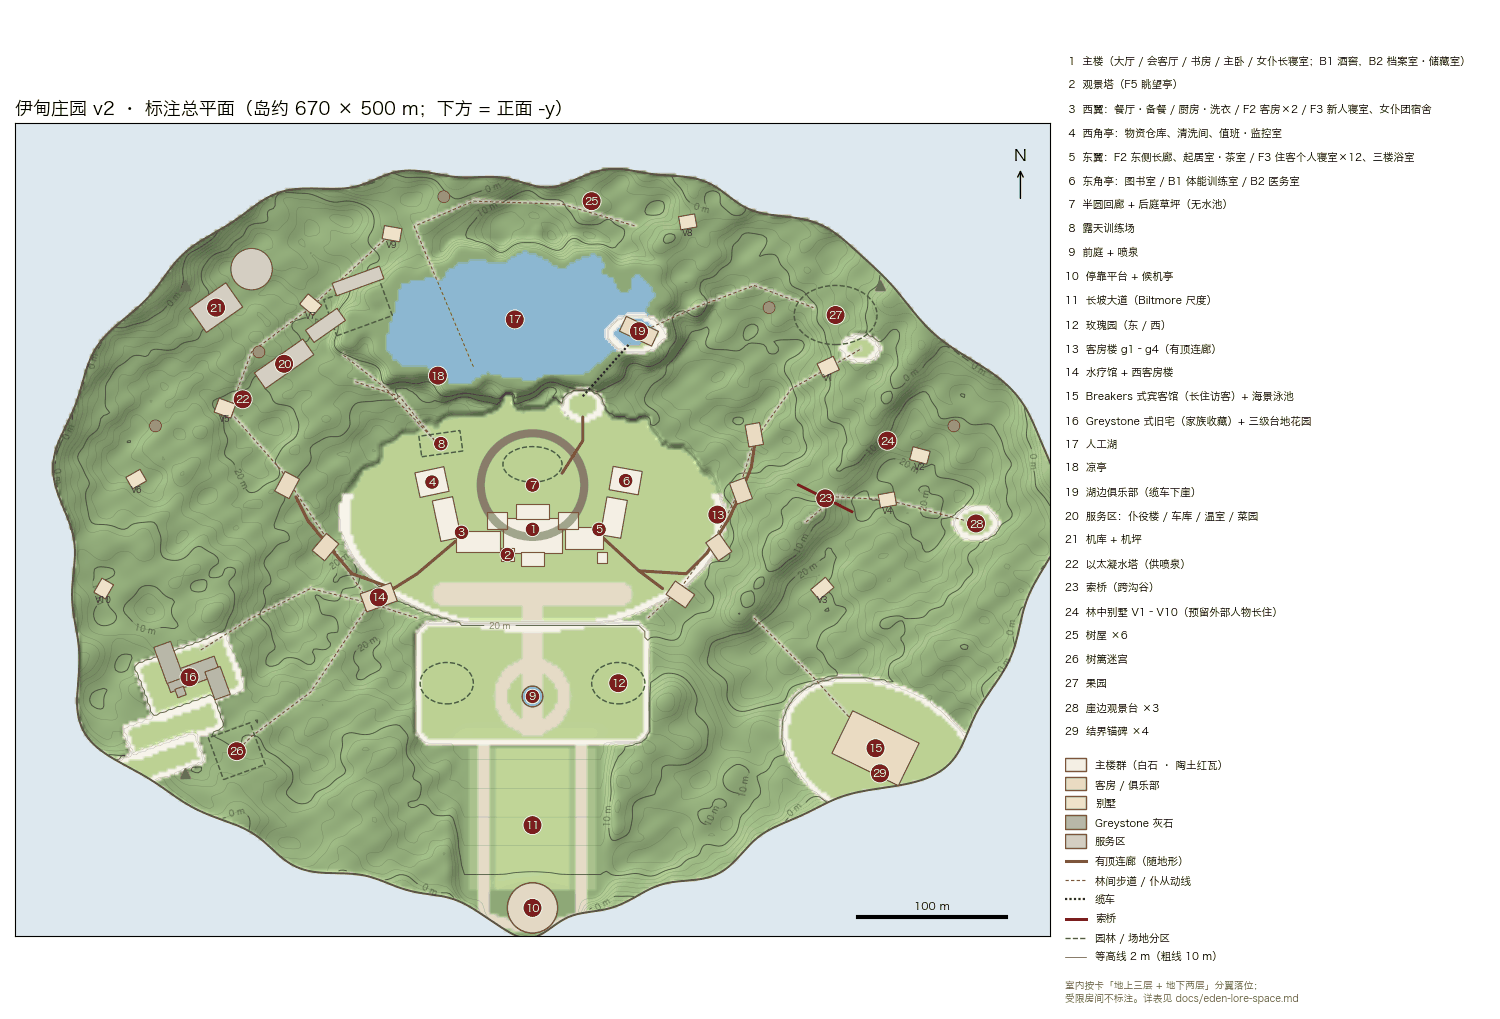
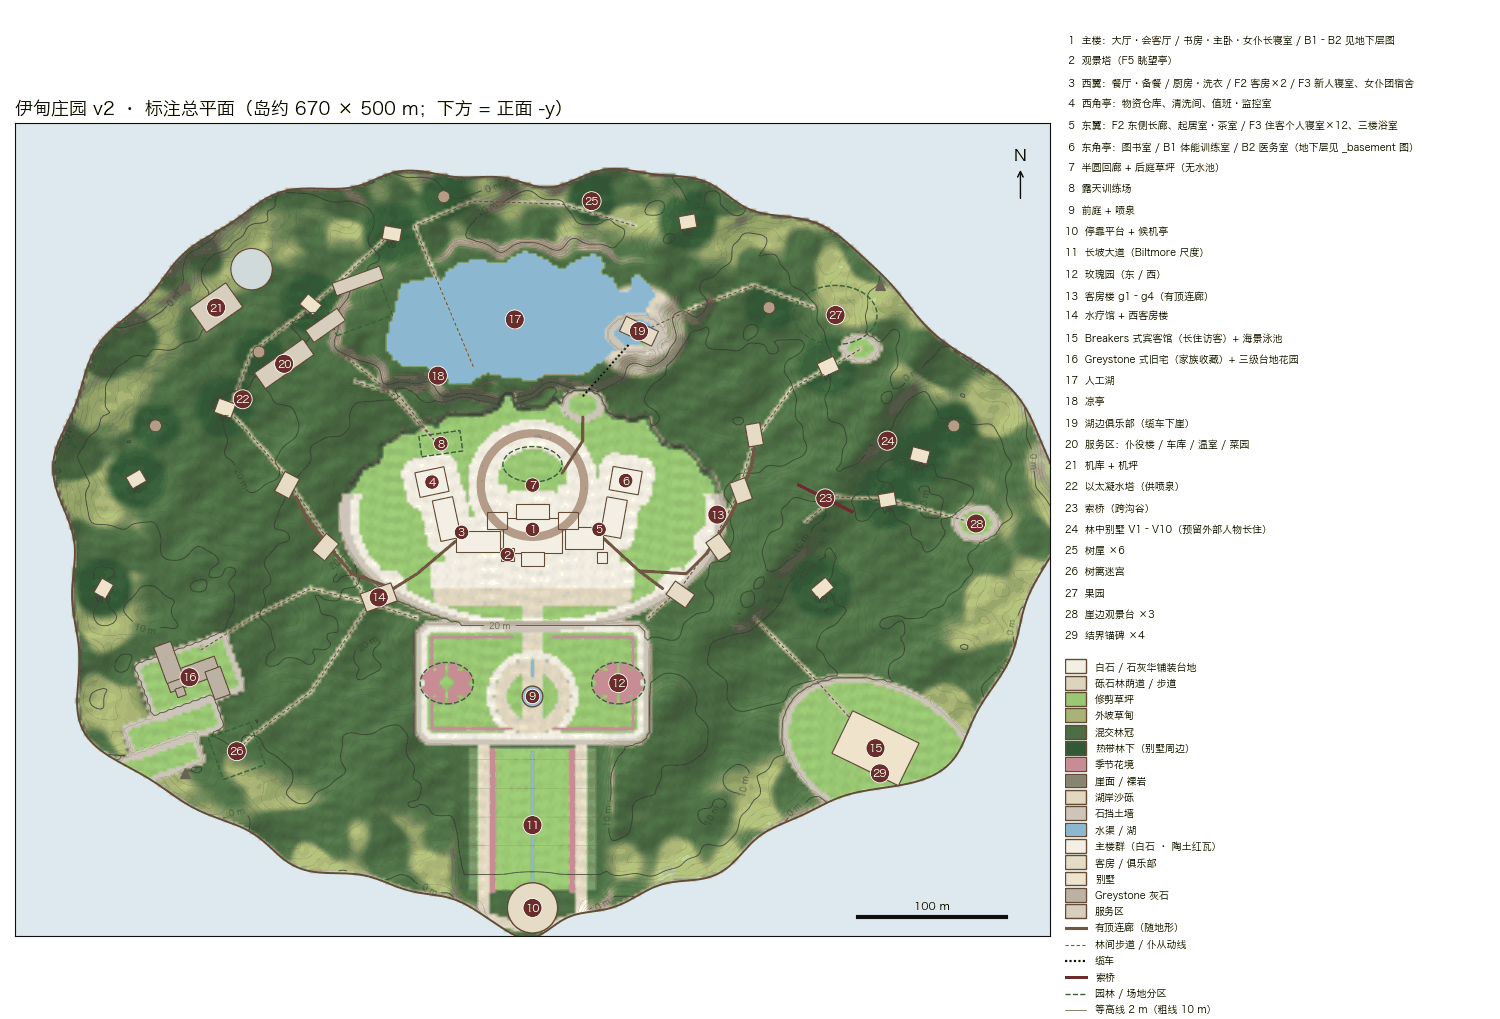
estate2 plan v2.1: restricted rooms as neutral * labels, basement B1/B2 plans, ground-cover classes (paving, gravel, lawn, meadow, beds, rock, sand, rills, tropical understory)

diff --git a/blender/estate2/plan2d.py b/blender/estate2/plan2d.py
@@ -26,14 +26,27 @@ fig, ax = plt.subplots(figsize=(15, 10.2), dpi=100)
 fig.subplots_adjust(0.01, 0.01, 0.70, 0.95)
 ax.set_facecolor('#dfe7ee')
 # 地面：林地为主，草坪 / 砾石 / 湖
-base = np.dstack([np.full_like(h, .56), np.full_like(h, .66), np.full_like(h, .47)])
 gy, gx = np.gradient(h, 2.0)
+slope = np.hypot(gx, gy)
 shade = np.clip(1 + (-gx * 0.6 + gy * 0.6) * 0.35, .65, 1.25)[..., None]
-img = base * shade
-lawn = att['lawn'][..., None]; img = img * (1 - lawn) + np.array([.74, .82, .58]) * shade * lawn
-gr = att['gravel'][..., None]; img = img * (1 - gr) + np.array([.90, .86, .78]) * gr
+tex = 1 + 0.06 * L.fbm(xs, ys, 9, 2, 5)[..., None]
+img = np.broadcast_to(np.array([.30, .43, .27]), h.shape + (3,)) * tex          # 混交林冠（深）
+
+def lay(mask, col):
+    global img
+    m = np.clip(mask, 0, 1)[..., None]; img = img * (1 - m) + np.array(col) * tex * m
+lay(att['tropic'], [.20, .36, .22])            # 别墅周边热带林下
+lay(att['meadow'], [.66, .70, .45])            # 外坡草甸 / 野花
+lay(att['lawn'], [.60, .78, .45])              # 修剪草坪（亮）
+lay(att['gravel'], [.88, .84, .74])            # 砾石林荫道 / 步道
+lay(att['paved'], [.95, .93, .88])             # 白石 / 石灰华铺装
+lay(att['beds'], [.80, .55, .60])              # 季节花境
+lay(np.clip((slope - 0.75) / 0.4, 0, 1) * (att['padmask'] < .5), [.55, .51, .46])   # 崖面 / 裸岩
+lay(att['sand'], [.90, .85, .72])              # 湖岸沙砾
+img = img * shade
 lk = (att['lake'] > .5)[..., None]; img = np.where(lk, np.array([.55, .72, .82]), img)
-bl = (att['built'] > .5)[..., None]; img = np.where(bl, np.array([.97, .96, .92]), img)
+bl = (att['built'] > .5)[..., None]; img = np.where(bl, np.array([.80, .78, .74]), img)   # 挡土墙
+img = np.where((att['rill'] > .5)[..., None], np.array([.45, .65, .80]), img)
 img = np.where(inside[..., None], np.clip(img, 0, 1), np.array([.87, .91, .94]))
 ax.imshow(img, extent=(-351, 351, -276, 276), origin='lower', interpolation='bilinear')
 cs = ax.contour(xs, ys, np.where(inside, h, np.nan), levels=np.arange(-6, 44, 2), colors='#4a4a3a', linewidths=.25, alpha=.45)
@@ -71,12 +84,12 @@ ax.add_patch(Circle((0, -256), 17, fc='#e0d8c8', ec=EDGE, lw=1, zorder=5))
 
 # 编号标签
 LAB = [
-    (1, (0, 0), '主楼（大厅 / 会客厅 / 书房 / 主卧 / 女仆长寝室；B1 酒窖，B2 档案室·储藏室）'),
+    (1, (0, 0), '主楼：大厅·会客厅 / 书房·主卧·女仆长寝室 / B1–B2 见地下层图'),
     (2, (-17, -17), '观景塔（F5 眺望亭）'),
     (3, (-48, -2), '西翼：餐厅·备餐 / 厨房·洗衣 / F2 客房×2 / F3 新人寝室、女仆团宿舍'),
     (4, (-68, 32), '西角亭：物资仓库、清洗间、值班·监控室'),
     (5, (45, 0), '东翼：F2 东侧长廊、起居室·茶室 / F3 住客个人寝室×12、三楼浴室'),
-    (6, (63, 33), '东角亭：图书室 / B1 体能训练室 / B2 医务室'),
+    (6, (63, 33), '东角亭：图书室 / B1 体能训练室 / B2 医务室（地下层见 _basement 图）'),
     (7, (0, 30), '半圆回廊 + 后庭草坪（无水池）'),
     (8, (-62, 58), '露天训练场'),
     (9, (0, -113), '前庭 + 喷泉'),
@@ -111,21 +124,46 @@ ax.set_title('伊甸庄园 v2 · 标注总平面（岛约 670 × 500 m；下方 
 ax.plot([220, 320], [-262, -262], color='k', lw=3); ax.text(270, -257, '100 m', ha='center', fontsize=8)
 ax.annotate('N', (330, 250), fontsize=12, ha='center'); ax.annotate('', (330, 245), (330, 222), arrowprops=dict(arrowstyle='->'))
 # 图例
-lg = fig.add_axes([0.71, 0.01, 0.285, 0.94]); lg.axis('off')
+lg = fig.add_axes([0.71, 0.0, 0.285, 0.97]); lg.axis('off')
 yy = 0.995
 for n, _, t in LAB:
-    lg.text(0, yy, f'{n:>2}  {t}', fontsize=7.6, va='top', wrap=True); yy -= .025
+    lg.text(0, yy, f'{n:>2}  {t}', fontsize=7.2, va='top', wrap=True); yy -= .0215
 yy -= .01
-for c, t in ((GROUP_C['main'], '主楼群（白石 · 陶土红瓦）'), (GROUP_C['guest'], '客房 / 俱乐部'), (GROUP_C['villa'], '别墅'),
+for c, t in (('#f2eee5', '白石 / 石灰华铺装台地'), ('#e0d6bd', '砾石林荫道 / 步道'), ('#99c773', '修剪草坪'), ('#a8b273', '外坡草甸'),
+             ('#4d6e45', '混交林冠'), ('#335c38', '热带林下（别墅周边）'), ('#cc8c99', '季节花境'), ('#8c8275', '崖面 / 裸岩'),
+             ('#e6d9b8', '湖岸沙砾'), ('#cdc7bd', '石挡土墙'), ('#73a6cc', '水渠 / 湖'),
+             (GROUP_C['main'], '主楼群（白石 · 陶土红瓦）'), (GROUP_C['guest'], '客房 / 俱乐部'), (GROUP_C['villa'], '别墅'),
              (GROUP_C['grey'], 'Greystone 灰石'), (GROUP_C['svc'], '服务区')):
-    lg.add_patch(Rectangle((0, yy - .012), .05, .014, fc=c, ec=EDGE, transform=lg.transAxes)); lg.text(.07, yy, t, fontsize=7.6, va='top'); yy -= .02
+    lg.add_patch(Rectangle((0, yy - .012), .05, .014, fc=c, ec=EDGE, transform=lg.transAxes)); lg.text(.07, yy, t, fontsize=7.2, va='top'); yy -= .0165
 for st, t in ((dict(color='#a0522d', lw=2.2), '有顶连廊（随地形）'), (dict(color='#7a5a3a', lw=.8, ls=(0, (3, 2))), '林间步道 / 仆从动线'),
               (dict(color='#222', lw=1.6, ls=(0, (1, 1))), '缆车'), (dict(color='#8b0000', lw=2), '索桥'), (dict(color='#2f6b2f', lw=1, ls='--'), '园林 / 场地分区'),
               (dict(color='#4a4a3a', lw=.5), '等高线 2 m（粗线 10 m）')):
-    lg.plot([0, .05], [yy - .006] * 2, transform=lg.transAxes, **st); lg.text(.07, yy, t, fontsize=7.6, va='top'); yy -= .02
+    lg.plot([0, .05], [yy - .006] * 2, transform=lg.transAxes, **st); lg.text(.07, yy, t, fontsize=7.2, va='top'); yy -= .0165
 lg.text(0, yy - .01, '室内按卡「地上三层 + 地下两层」分翼落位；\n受限房间不标注。详表见 docs/eden-lore-space.md', fontsize=7, va='top', color='#555')
 lg.set_xlim(0, 1); lg.set_ylim(0, 1)
 fig.savefig(OUT + '.tmp.png', dpi=100)
 from PIL import Image
 Image.open(OUT + '.tmp.png').convert('RGB').quantize(128).save(OUT, optimize=True); os.remove(OUT + '.tmp.png')
 print(OUT, os.path.getsize(OUT) // 1024, 'KB')
+
+
+# ---------------------------------------------------------------- 地下层（B1 / B2）
+OUTB = OUT.replace('.png', '_basement.png')
+fig, axs = plt.subplots(2, 2, figsize=(12, 7.2), dpi=100, gridspec_kw=dict(width_ratios=[40, 22]))
+fig.subplots_adjust(0.02, 0.06, 0.98, 0.88, 0.08, 0.28)
+COL = {'*': '#e3dcef', '酒窖': '#ead9c4', '档案室': '#dfe6ee', '储藏室': '#e8e4da', '体能训练室': '#dcead9', '医务室': '#d9e9ec'}
+for j, (bid, name) in enumerate((('hall', '1 主楼'), ('e_pav', '6 东角亭'))):
+    for i, lv in enumerate(('B1', 'B2')):
+        ax = axs[i, j]
+        for n, x0, y0, x1, y1 in L.BASEMENT[bid][lv]:
+            c = COL['*'] if '*' in n else COL.get(n, '#f3f1ec')
+            ax.add_patch(Rectangle((x0, y0), x1 - x0, y1 - y0, fc=c, ec='#4a3a2a', lw=1.2))
+            ax.text((x0 + x1) / 2, (y0 + y1) / 2, n, ha='center', va='center', fontsize=9)
+        b = [q for q in L.MAIN if q[0] == bid][0]
+        ax.set_xlim(-b[3] / 2 - 1, b[3] / 2 + 1); ax.set_ylim(-b[4] / 2 - 1, b[4] / 2 + 1); ax.set_aspect('equal'); ax.axis('off')
+        ax.set_title(f'{name} · {lv}（{"-4.5" if lv == "B1" else "-9.0"} m）  {b[3]}×{b[4]} m', fontsize=10, loc='left')
+fig.suptitle('伊甸庄园 v2 · 地下层平面（卡：地上三层 + 地下两层）', fontsize=13, x=0.02, ha='left')
+fig.text(0.02, 0.015, L.BASEMENT_LINK + '；带 * 的为通用名房间，只保留几何与标签。下方 = 正面。', fontsize=8.5, color='#555')
+fig.savefig(OUTB + '.tmp.png', dpi=100)
+Image.open(OUTB + '.tmp.png').convert('RGB').quantize(64).save(OUTB, optimize=True); os.remove(OUTB + '.tmp.png')
+print(OUTB, os.path.getsize(OUTB) // 1024, 'KB')

diff --git a/blender/estate2/layout.py b/blender/estate2/layout.py
@@ -208,8 +208,45 @@ def terrain(x, y):
             lawn = np.maximum(lawn, (np.abs(x) < 26).astype(float) * (sd < -3))
             lawn = np.maximum(lawn, 0.55 * (sd < -3))
     gravel = gravel_mask(x, y)
-    lawn = lawn * (1 - gravel)
-    return h, dict(lawn=lawn, gravel=gravel, built=built, padmask=padmask, lake=lake)
+    cv = cover(x, y, padmask, lake)
+    lawn = lawn * (1 - gravel) * (1 - cv['paved']) * (1 - cv['beds'])
+    gravel = gravel * (1 - cv['paved'])
+    return h, dict(lawn=lawn, gravel=gravel, built=built, padmask=padmask, lake=lake, **cv)
+
+
+def cover(x, y, padmask, lake):
+    """地表分类（v2 用户意见）：白石 / 石灰华铺装、种植床、水渠、湖岸沙砾、外坡草甸、别墅周边热带林下。"""
+    pl = [p for p in PADS if p['id'] == 'plateau'][0]
+    te = [p for p in PADS if p['id'] == 'terrace'][0]
+    fp = footprint_sd(x, y, 0.0)
+    sd_pl, sd_te = pad_sd(pl, x, y), pad_sd(te, x, y)
+    rc = np.hypot(x - FOUNTAIN[0], y - FOUNTAIN[1])
+    paved = ((fp < 9) & (sd_pl < -1)).astype(float)                              # 主楼群周边石铺台地
+    paved = np.maximum(paved, ((sd_pl < -1) & (y < -22) & (y > -40) & (np.abs(x) < 70)).astype(float))   # 主楼前平台
+    paved = np.maximum(paved, ((sd_te > -7) & (sd_te < -1.5)).astype(float))    # 前庭台地沿挡土墙的石铺步道
+    paved = np.maximum(paved, ((rc > COURT_R) & (rc < COURT_R + 5)).astype(float))
+    paved = np.maximum(paved, ((sd_pl > -6) & (sd_pl < -1.5) & (y < 25)).astype(float))
+    arc_r = np.hypot(x - ARC['c'][0], y - ARC['c'][1])
+    paved *= 1 - ((arc_r < ARC['R'] - ARC['depth'] / 2 - 3) & (y > ARC['c'][1])).astype(float)   # 回廊院内留草坪
+    beds = np.zeros_like(paved)
+    for gid, _, kind, c, sz, rot in GARDENS:
+        if gid in ('rose', 'rose_w'):
+            r = np.hypot((x - c[0]) / sz[0], (y - c[1]) / sz[1])
+            beds = np.maximum(beds, ((r < 1) & (np.abs(np.sin(np.arctan2(y - c[1], x - c[0]) * 4)) > 0.25) & (r > 0.25)).astype(float))
+    beds = np.maximum(beds, ((np.abs(np.abs(x) - 27.5) < 1.6) & (y > -246) & (y < -148)).astype(float))   # 大道两侧花境
+    beds = np.maximum(beds, ((sd_te > -11) & (sd_te < -8) & (np.abs(x) > 12)).astype(float))            # 前庭沿墙花境
+    rill = ((np.abs(x) < 0.9) & (y > -246) & (y < -150)).astype(float)            # 大道中轴水渠
+    rill = np.maximum(rill, ((np.abs(x) < 0.9) & (y > -100) & (y < -88)).astype(float))
+    dc = np.hypot(x - 72, y - 134)
+    sand = ((dc < 34) & (lake < 0.95) & (dc > 10)).astype(float) * smooth01((34 - dc) / 6)
+    e = edge_dist(x, y)
+    meadow = smooth01((55 - e) / 20) * smooth01(0.5 + 2.2 * fbm(x, y, 70, 2, 31)) * (1 - padmask)
+    under = np.zeros_like(paved)
+    for b in VILLAS:
+        under = np.maximum(under, smooth01((24 - np.hypot(x - b[1], y - b[2])) / 8))
+    for tx, ty, _ in TREEHOUSES:
+        under = np.maximum(under, smooth01((20 - np.hypot(x - tx, y - ty)) / 8))
+    return dict(paved=paved, beds=beds, rill=rill, sand=sand, meadow=meadow * (1 - under), tropic=under)
 
 
 # ---------------------------------------------------------------- 路网
@@ -318,7 +355,7 @@ SERVICE = [
     ('svc_house', -168, 112, 40, 13, 2.5, 35, 'hip', 'white'),     # 仆役楼：女仆团后勤、布草、员工餐厅
     ('hangar', -214, 150, 30, 20, 2, 35, 'flat', 'white'),          # 机库（机坪在旁）
     ('garage', -140, 138, 26, 10, 1.2, 35, 'hip', 'white'),         # 马车房 / 车库
-    ('greenhouse', -118, 168, 34, 9, 1.4, 20, 'glass', 'white'),    # 温室 / 橘园（菜园北墙）
+    ('greenhouse', -118, 168, 34, 9, 1.4, 20, 'flat', 'white'),    # 温室 / 橘园（菜园北墙）
 ]
 WATER_TOWER = (-196, 88, 5.5, 22)          # 以太凝水塔：圆塔 (x, y, 半径, 高)，给喷泉供水
 HELIPAD = (-190, 176, 14)                  # 机坪 (x, y, 半径)
@@ -337,7 +374,7 @@ BARRIER_STONES = [(-235, -165), (235, -165), (-235, 165), (235, 165)]   # 结界
 # 主楼群按翼 / 层落位（B2…F3 对应卡里的地上三层 + 地下两层；F5 为观景塔顶）
 PROGRAM = {
     'hall':      {'F1': ['大厅', '会客厅'], 'F2': ['书房', '主卧（含衣帽间、浴室）', '女仆长寝室'], 'F3': ['三楼公共浴室'],
-                  'B1': ['酒窖'], 'B2': ['档案室', '储藏室']},
+                  'B1': ['酒窖', '附属室 A*', '附属室 B*', '附属室 C*'], 'B2': ['档案室', '储藏室', '附属室 D*']},
     'porch':     {'F1': ['门廊（正门）']},
     'tower':     {'F5': ['观景塔 / 眺望亭']},
     'w_wing_a':  {'F1': ['餐厅', '备餐间'], 'F2': ['客房 ×2'], 'F3': ['新人公共寝室']},
@@ -357,6 +394,16 @@ PROGRAM = {
     'club':      {'F1': ['湖边俱乐部']},
     'svc_house': {'F1': ['仆役厅', '员工餐厅', '附属用房']},
 }
+# 地下层平面（主楼 hall 40×24、东角亭 e_pav 20×16 下方），格子 = (名称, x0, y0, x1, y1) 局部米，−y 为正面
+BASEMENT = {
+    'hall': {'B1': [('酒窖', -20, -12, -8, 0), ('附属室 A*', -8, -12, 12, 4), ('附属室 B*', 12, -12, 20, 0),
+                    ('附属室 C*', 12, 0, 20, 12), ('楼梯 / 电梯厅', -20, 0, -8, 12), ('走廊', -8, 4, 12, 12)],
+             'B2': [('档案室', -20, -12, -6, 0), ('储藏室', -20, 0, -6, 12), ('附属室 D*', 6, -12, 20, 4),
+                    ('楼梯 / 电梯厅', -6, -12, 6, 0), ('走廊 / 设备间', -6, 0, 20, 12)]},
+    'e_pav': {'B1': [('体能训练室', -10, -8, 6, 8), ('楼梯', 6, -8, 10, 8)],
+              'B2': [('医务室', -10, -8, 6, 8), ('楼梯', 6, -8, 10, 8)]},
+}
+BASEMENT_LINK = '主楼 B1 与东角亭 B1 之间有地下走廊（沿东翼下方，约 55 m）'
 # 林中别墅：留给以后入住的外部人物（卡未写入住，先不定人）
 VILLA_NOTE = '别墅 V1–V10 与客房楼 g1–g4 / w_g1–w_g2 预留给外部人物长住（伊莎贝拉、维多利亚、克洛伊、塞拉菲娜、神宫寺凛、叶梨莎、玛嘉烈等）'
 

diff --git a/docs/eden-lore-space.md b/docs/eden-lore-space.md
@@ -1,9 +1,9 @@
 # 伊甸庄园 · 设定空间清单（Blender v2 用）
 
 来源：角色卡《庄园布局》《女仆团》及人物条目（只读，卡片不入库）、`docs/eden-estate.md`、`map/data/maps.json`（`here.mjs` 词表）。
-**内容规则**：只写中性名称与功能；卡中性质不宜的房间一律省略或给通用名，设施细节不入库。
+**内容规则**：只写中性名称与功能；卡中性质不宜的房间一律给通用名并加 `*`（如「附属室 A*」），只保留几何与标签，不写功能与陈设。
 
-统计：卡中空间 **39** 项（主楼 F1 9、F2 7、F3 4、B1 3、B2 4、系统 2、室外 10，其中 2 项为省略占位），仓库既有补充 **13** 项，人物 **11** 组；`here.mjs` 当前能解析 **33/52**。
+统计：卡中空间 **41** 项（主楼 F1 9、F2 7、F3 4、B1 5、B2 4、系统 2、室外 10，其中 4 项为 * 通用名），仓库既有补充 **13** 项，人物 **11** 组；`here.mjs` 当前能解析 **33/54**。
 
 卡的总体数据：独占悬浮岛；「占地约 12,000 m²（含室外庭园）」；地上三层 + 地下两层；新古典白石；主人动线与仆从动线分离。
 > 注：卡的 12,000 m² 远小于岛面（约 670 × 500 m），v2 按「主楼群 + 庭园核心约 1.2 ha」理解，其余为林地、别墅与园林（推断）。
@@ -34,11 +34,13 @@
 | F3-04 | **三楼公共浴室** | 主楼 F3 | 三楼住客共用的大浴池与淋浴间 | 三楼住客 | ✅ 浴室 | 50 | 三楼中部 | 卡（中性化） |
 | B1-01 | **体能训练室** | 主楼 B1 | 日常健身、柔韧训练，附加固型格斗训练区与武器架 | 苍穹、瑞秋·卡特、罗莎琳德等 | ❌ | 60 | 地下一层 | 卡（中性化） |
 | B1-02 | **酒窖** | 主楼 B1 | 恒温酒窖，藏酒两千余瓶 | 主人 | ❌ | 30 | 地下一层，近厨房竖向 | 卡（奢华与日常质感） |
-| B1-03 | **（受限房间 ×3）** | 主楼 B1 | 卡中另有 3 间训练用房，按内容规则不建模、不命名 | — | — | 80 / 30 / 25 | 地下一层 | 卡（省略） |
+| B1-03 | **附属室 A*** | 主楼 B1 | （仅几何与标签） | — | ❌ | 80 | 地下一层中部，邻体能训练室 | 卡（*） |
+| B1-04 | **附属室 B*** | 主楼 B1 | （仅几何与标签） | 主人 | ❌ | 30 | 邻附属室 A | 卡（*） |
+| B1-05 | **附属室 C*** | 主楼 B1 | （仅几何与标签） | — | ❌ | 25 | 地下一层 | 卡（*） |
 | B2-01 | **医务室** | 主楼 B2 | 健康检查与术后恢复 | 伊薇特·施奈德（医生） | ❌ | 50 | 地下二层 | 卡（中性化） |
 | B2-02 | **档案室** | 主楼 B2 | 协议原件与资料、影像存储服务器；仅主人与女仆长 | 主人；绫濑遥 | ❌ | 20 | 地下二层 | 卡 |
 | B2-03 | **储藏室** | 主楼 B2 | 季节性服装储备、备用设备、紧急医疗包 | 绫濑遥 | ✅ 储藏室 | 30 | 地下二层 | 卡 |
-| B2-04 | **（受限房间 ×1）** | 主楼 B2 | 卡中另有 1 间受限用房，不建模、不命名 | — | — | 40 | 地下二层 | 卡（省略） |
+| B2-04 | **附属室 D*** | 主楼 B2 | （仅几何与标签） | — | ❌ | 40 | 地下二层，无窗 | 卡（*） |
 | SYS-01 | **结界发生器** | 主楼/全岛 | 外层结界覆盖全岛，内层各房间独立隔音 | — | ❌ | — | 以太驱动；可落在锚碑或地下机房 | 卡 |
 | SYS-02 | **监控中心** | 主楼 | 全域监控，画面可投大厅、书房、女仆长寝室 | 主人；绫濑遥 | ❌ | — | here.mjs 已有「监控室」「安保室」 | 卡 |
 | O-01 | **前庭花园** | 室外 正面 | 正面入口景观；石板步道、修剪植被；结界边界 | 访客 | ◐ 前庭（区域） | 200（卡） | 正门前；接停靠平台 | 卡 |
@@ -89,4 +91,4 @@
 ## 4. 对 `here.mjs` 的建议（未改代码，改 `maps.json` 需协调）
 
 卡里有、词表没有的：酒窖、档案室、医务室、体能训练室、露天训练场、东侧长廊、集体宿舍、以太凝水塔、物资仓库、备餐间以外的后勤间。
-建议 v1.0 在 `maps.json` 的 `rooms` 补「酒窖、档案室、医务室、体能训练室、长廊、宿舍」，`areas` 补「训练场、凝水塔」。本次不动 `maps.json`（其他 agent 在改）。
+建议 v1.0 在 `maps.json` 的 `rooms` 补「酒窖、档案室、医务室、体能训练室、长廊、宿舍」，`areas` 补「训练场、凝水塔」。另加 `rooms`「附属室」（覆盖 A*–D*）。本次未改 `maps.json`（共享文件，自动权限拦截），待协调方或用户确认后再加。
